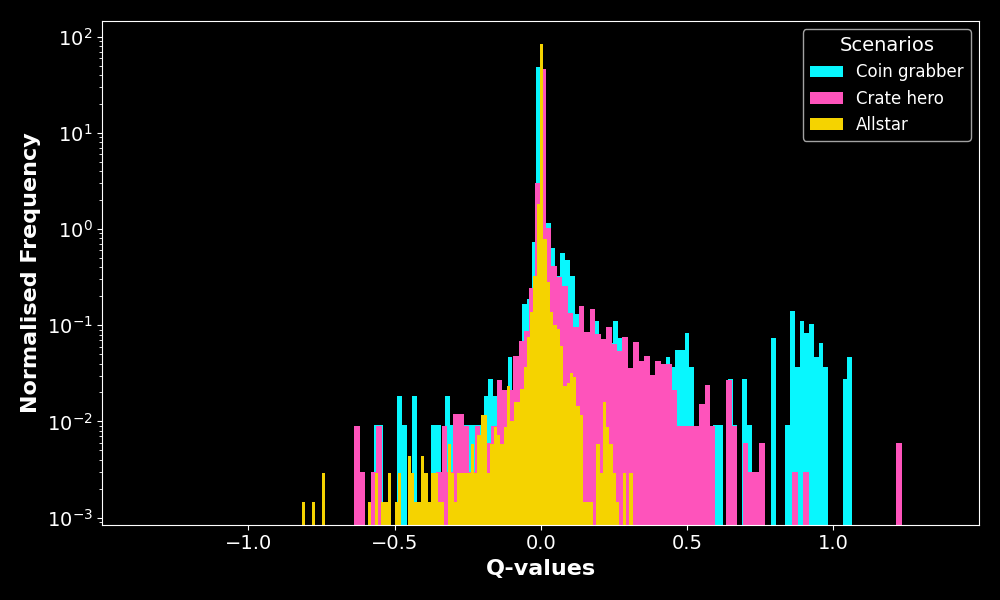
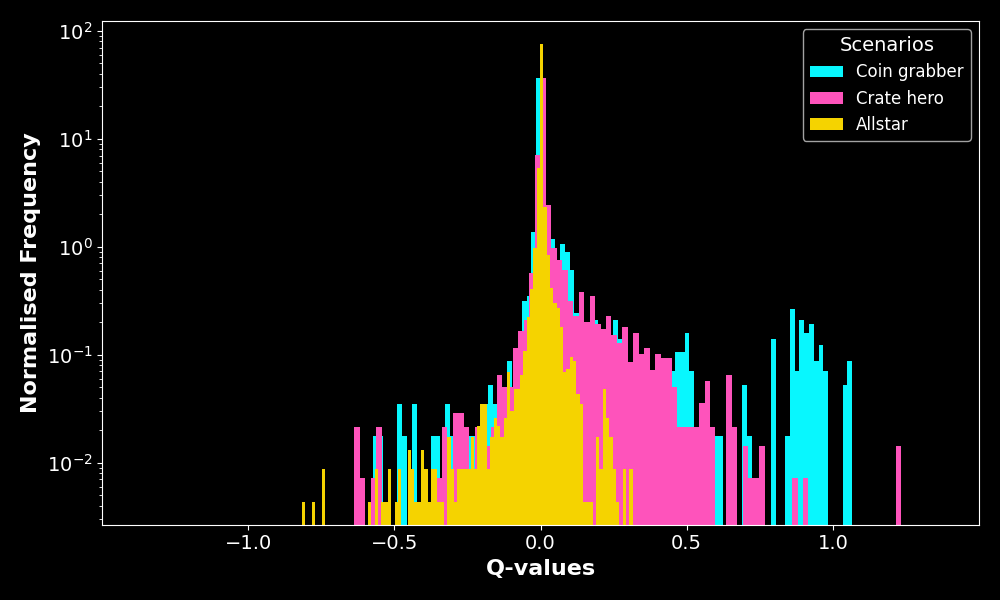
Update posts

diff --git a/_posts/2025-07-23-computers-learning-bomberman-tabular-q.md b/_posts/2025-07-23-computers-learning-bomberman-tabular-q.md
@@ -46,7 +46,7 @@ In BombeRLe, up to four agents compete by collecting coins and placing bombs to 
 
 
 <figure>
-  <img src="{{ site.baseurl }}/assets/img/bomberle-python/2_explain_bombs.gif"  width="70%" alt="">
+  <img src="{{ site.baseurl }}/assets/img/bomberle-python/2_explain_bombs.gif"  width="100%" alt="">
   <figcaption>Figure 1: Bomb game mechanics with default settings. The agent places a bomb, then moves away, waits for three frames and moves back into the smoke once the explosion has subsided.</figcaption>
 </figure>
 
@@ -110,7 +110,7 @@ By observing such a rule-based agent play as small number of rounds, you can qui
 In addition, it turns out that this rule-based agent plays fairly well and the tabular Q-agent will have to compare itself to it to measure its worth.
 
 <figure>
-  <img src="{{ site.baseurl }}/assets/img/bomberle-python/4_representator.gif"  width="70%" alt="">
+  <img src="{{ site.baseurl }}/assets/img/bomberle-python/4_representator.gif"  width="100%" alt="">
   <figcaption>Figure 3: Rule-based agent using the simplified state representation. It plays fairly well against the inbuilt rule-based agents. In the end, it dies because the enemy moves into a free field, blocking the agent's move. Having lost one move, the agent cannot escape its own bomb's explosion anymore. This directly highlights a shortcoming of the above representation: The agent does not have a sense of its wider surroundings and situations that are potentially dangerous.</figcaption>
 </figure>
 
@@ -165,7 +165,7 @@ Since we’re using off-policy learning (based on demonstrator trajectories), th
 
 
 <figure>
-  <img src="{{ site.baseurl }}/assets/img/bomberle-python/5_coin_grabber.gif"  width="70%" alt="">
+  <img src="{{ site.baseurl }}/assets/img/bomberle-python/5_coin_grabber.gif"  width="100%" alt="">
   <figcaption>Figure 4: Tabular Q-agent successfully collecting coins after 50,000 rounds of offline training. The agent comfortably navigates the map and reliably collects all coins. The pre-recorded transitions are from a rule-based agent as demonstrator playing by itself in the coin-heaven scenario. The initial exploration of 100% decays to zero with an exploration decay of 3e-6 per transitions. </figcaption>
 </figure>
 
@@ -178,7 +178,7 @@ Additionally, the agent’s behavior reflects a **design choice**: the pathfindi
 Next, we train on a more complex board configuration with crates but still without enemies - a scenario baptised *loot-crate* by the game. The learns how to successfully blow up crates. I also experimented with a 16-bit representation dropping the type of the object of interest to save 2 bits. However, the agent would get caught in infinite up-down loops or just wait in that reduced representation. My interpretation is that the agent benefits from being able to distinguish between coins and crates (even though I am not 100% sure why this should matter in tabular Q-learning). My takeaway is that the representation matters more that I thought at first. More generally, I tend to suspect hyperparameters when machine learning algorithms underperform, but for tabular Q-learning and Bomberman the **quality of the state representation seemed to be much more important than everything else** once the algorithm was up and running.
 
 <figure>
-  <img src="{{ site.baseurl }}/assets/img/bomberle-python/6_crate_hero.gif"  width="70%" alt="">
+  <img src="{{ site.baseurl }}/assets/img/bomberle-python/6_crate_hero.gif"  width="100%" alt="">
   <figcaption>Figure 5: Tabular Q-agent successfully blowing up crates and collecting coins after 50,000 rounds of offline training. The pre-recorded transitions are from a rule-based agent as demonstrator playing by itself in the loot-crate scenario. The initial exploration of 100% decays to zero with an exploration decay of 3e-6 per transitions.</figcaption>
 </figure>
 
@@ -190,17 +190,18 @@ In the final training phase, I simulate a full game in the *classic* scenario wi
 * One **peaceful agent** that moves randomly and doesn't place bombs
 * One **tabular Q-learning agent** in classic mode
 
-The tabular Q-agent after 50,000 training rounds plays fairly well and turns out to achieve higher scores than the rule-based agent.
+The tabular Q-agent after 50,000 training rounds plays fairly well and tends to achieve higher scores than the rule-based agent.
 
 <figure>
-  <img src="{{ site.baseurl }}/assets/img/bomberle-python/7_allstar.gif"  width="70%" alt="">
+  <img src="{{ site.baseurl }}/assets/img/bomberle-python/7_allstar.gif"  width="100%" alt="">
   <figcaption>Figure 6: Tabular Q-agent (pink) playing against two rule-based and one peaceful agent after 50,000 rounds of offline training. The four games shown demonstrate that the agent occasionally wins against the rule-based agent and prefers suicide to getting killed. The pre-recorded transitions are from a rule-based agent as demonstrator playing against a peaceful agent and two other rule-based agents. The initial exploration of 100% decays to zero with an exploration decay of 3e-6 per transitions.</figcaption>
 </figure>
 
 
+
 ## How to understand these results?
 
-Training these agents, I wondered which metrics we could best use to assess the performance of the different tabular Q-agent. An obvious choice is to evaluate the agent periodically and check which average scores they achieve. Figure 8 shows the scores of the three agents: The *coin grabber* in the coin-heaven scenario (40 coins, no crates, no enemies), the *crate hero* in the loot-crate scenario (40 coins, crates, no enemies) and the *allstar* in the classic scenario (9 coins, crates, 3 enemies) as well as the rule-based agent playing agains the tabular Q-agent in the classic scenario for reference.
+Training these agents, I wondered which metrics we could best use to assess the training process. An obvious choice is to check the scores the agents achieve. Figure 7 shows the scores of the three agents throughout the training: The *coin grabber* in the coin-heaven scenario (40 coins, no crates, no enemies), the *crate hero* in the loot-crate scenario (40 coins, crates, no enemies) and the *allstar* in the classic scenario (9 coins, crates, 3 enemies) as well as the rule-based agent playing agains the tabular Q-agent in the classic scenario for reference. The croin gabber and crate hero quickly converge to optimal policies. The all star achieves higher scores than the rule-based agents but seems to be still improving.
 
 
 <figure>
@@ -208,12 +209,28 @@ Training these agents, I wondered which metrics we could best use to assess the 
   <figcaption>Figure 7: Game scores across 50,000 offline training rounds with training in sequential batches of 5,000 rounds. The agents were evaluated across 50 games after every batch and the scores - 1 point for every coin collected and 5 points for every enemy killed - averaged. The coin grabber agent consistently collects all 40 coins in the coin-heaven scenario, even after just 5,000 training episodes. The crate hero agent needs slightly more time. After 30,000 training episodes, it converges to a policy that consistently blows up all creates in the loot-crate scenario and also collects all coins. The allstar achieves higher scores than the rule-based agent after 30,000 episodes and improves until the end of the training. Note that the total number of state visits differs between the runs since different scenarios lead to shorter and longer episodes. The 50,000 episodes in the coin-heaven and loot-crate scenarios contain around 2.5M transitions whereas the episodes in the classic scenarios contain around 5M transitions.  </figcaption>
 </figure>
 
+We can assess the performance of the allstar agent in more detail by studying the game results. The following table shows the averaged results of 1,000 games between the allstar agent, a rule-based agent, a peaceful agent and the rule-based agent using the simplified state representation - the *representator* - discussed in Figure 3. I checked that 1,000 games provide sufficient statistics for reproducible results.
 
-To better monitor the training process, it is interesting to review how many unique states are visited during trainin. Figure 8 shows that the training data for both the coin gabber and the crate hero do not contain new unique states after around 500,000 states. In contrast, the allstar training set contains new states until the end of the training, suggesting that the training set should be larger. I did, however, test training with 250,000 episodes and the agent's performance did not improve anymore suggesting that the bottleneck is elsewhere.
+| Category | allstar | peaceful_agent | rule_based_agent | representator |
+|----------|-----------|--------------|----------------|----------------|
+| bombs | 18 | 0 | 8 | 19 |
+| coins | 3.5 | 0.33 | 2.1 | 3 |
+| crates | 6.5 | 0 | 6.3 | 8.1 |
+| invalid | 2.1 | 18 | 4.7 | 3.4 |
+| kills | 0.57 | 0 | 0.48 | 0.62 |
+| moves | 1.3e+02 | 14 | 69 | 1.3e+02 |
+| score | 6.3 | 0.33 | 4.5 | 6.1 |
+| steps | 1.5e+02 | 33 | 84 | 1.5e+02 |
+| suicides | 0.61 | 0 | 0.34 | 0.52 |
+| time | 0.08 | 0.00099 | 0.04 | 0.061 |
+
+In general, the allstar agent **places many more bombs, collects more coins, destroys the same number of crates, makes fewer invalid moves, is a better killer, moves more, achieves 50% higher scores and is far more suicidal than the inbuilt rule-based agent**. What is more interesting is the comparison with the representator: it turns out that the rule-based agent based on the simplified state representation achieves similar scores as the allstar. I am not sure whether I should be disappointed but I guess you reap what you sow: Given that the features were handcrafted with a certain purpose in mind and mostly show the agent its immediate surroundings, it should not be too surprising that the Q-learning process mostly consists in discovering the meaning of the features. The allstar is slightly more suicidal, collects fewer crates and achieves fewer kills but collects more coins than the representator.
+
+Let us focus on the allstar agent's training process next. It is insightful to check how many unique states are visited during trainin. Figure 8 shows that the training data for both the coin gabber and the crate hero do not contain new unique states after around 500,000 states. In contrast, the allstar training set contains new states until the end of the training, suggesting that the training set should be larger. I did, however, test training with 250,000 episodes and the agent's performance did not improve anymore, suggesting that the bottleneck is elsewhere.
 
 <figure>
   <img src="{{ site.baseurl }}/assets/img/bomberle-python/9_state_visits.png"  width="100%" alt="">
-  <figcaption>Figure 8: Number of unique state visits as function of number of total state visits for the 3 training scenarios for 50_000 offline training rounds. This plot suggests that the training sets for the coin grabber and create hero do not provide contain new states after around 25_000 training rounds. The training set for the allstar, on the other hand, is not exhaustive of the states the demonstrator agent could visit.</figcaption>
+  <figcaption>Figure 8: Number of unique state visits as function of number of total state visits for the 3 training scenarios for 50,000 offline training rounds. This plot suggests that the training sets for the coin grabber and create hero do not provide contain new states after around 25,000 training rounds. The training set for the allstar, on the other hand, is not exhaustive of the states the demonstrator agent could visit.</figcaption>
 </figure>
 
 Going beyond that, we could look at how the Q-values or the number of state visits evolves during training but I personally find these metrics hard to interpret. I was hoping to gain insights from studying the Bellmann time difference error distribution over time, but to be honest, I was not able to tell whether the training had converged by looking at the time difference errors even though they are probably the closest counterpart of a training loss in tabular Q-learning. What did turn out to be interesting is looking at the number of policy changes, that is, that number of states where the best action has changed - over the course of the training. Figure 9 shows these policy changes and highlights that the crate hero's and allstar's policy's have not completely converged after 50,000 episodes of offline training and might benefit from more offline training.

diff --git a/_posts/2023-09-11-fourierpainter-post.md b/_posts/2023-09-11-fourierpainter-post.md
@@ -106,7 +106,7 @@ plt.savefig("elephant.png")
 {%- endhighlight -%}
 
 The final result looks as follows:
-<img src="{{ site.baseurl }}/assets/img/fourierpainter-python/elephant.png" alt="" width="100%" class="center">
+<img src="{{ site.baseurl }}/assets/img/fourierpainter-python/elephant.png" alt="" width="100%">
 If you like you can play around with the code and use different input data. Have fun!
 
 
